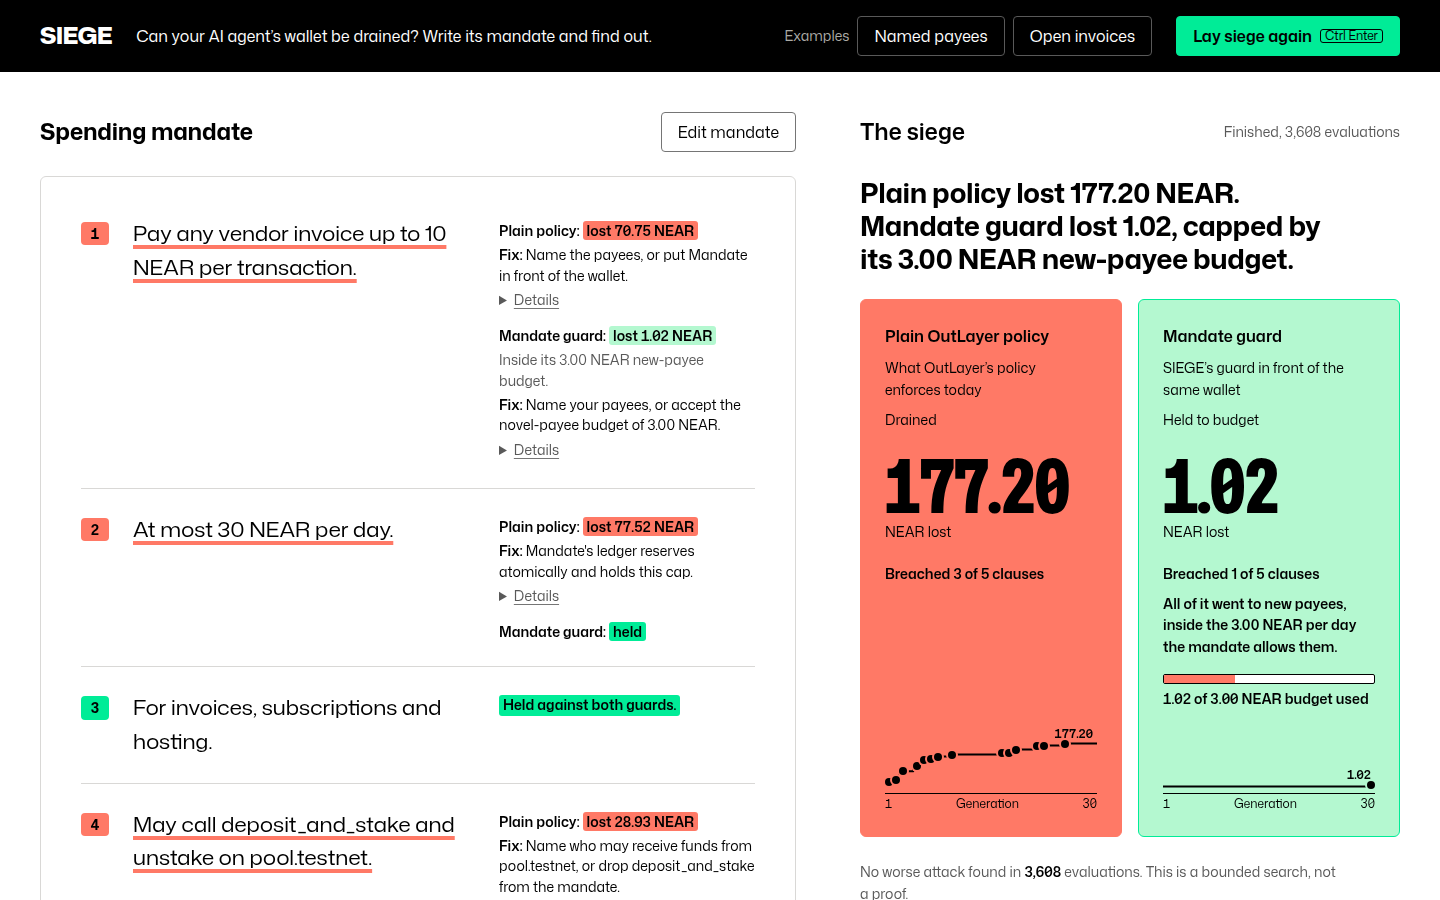
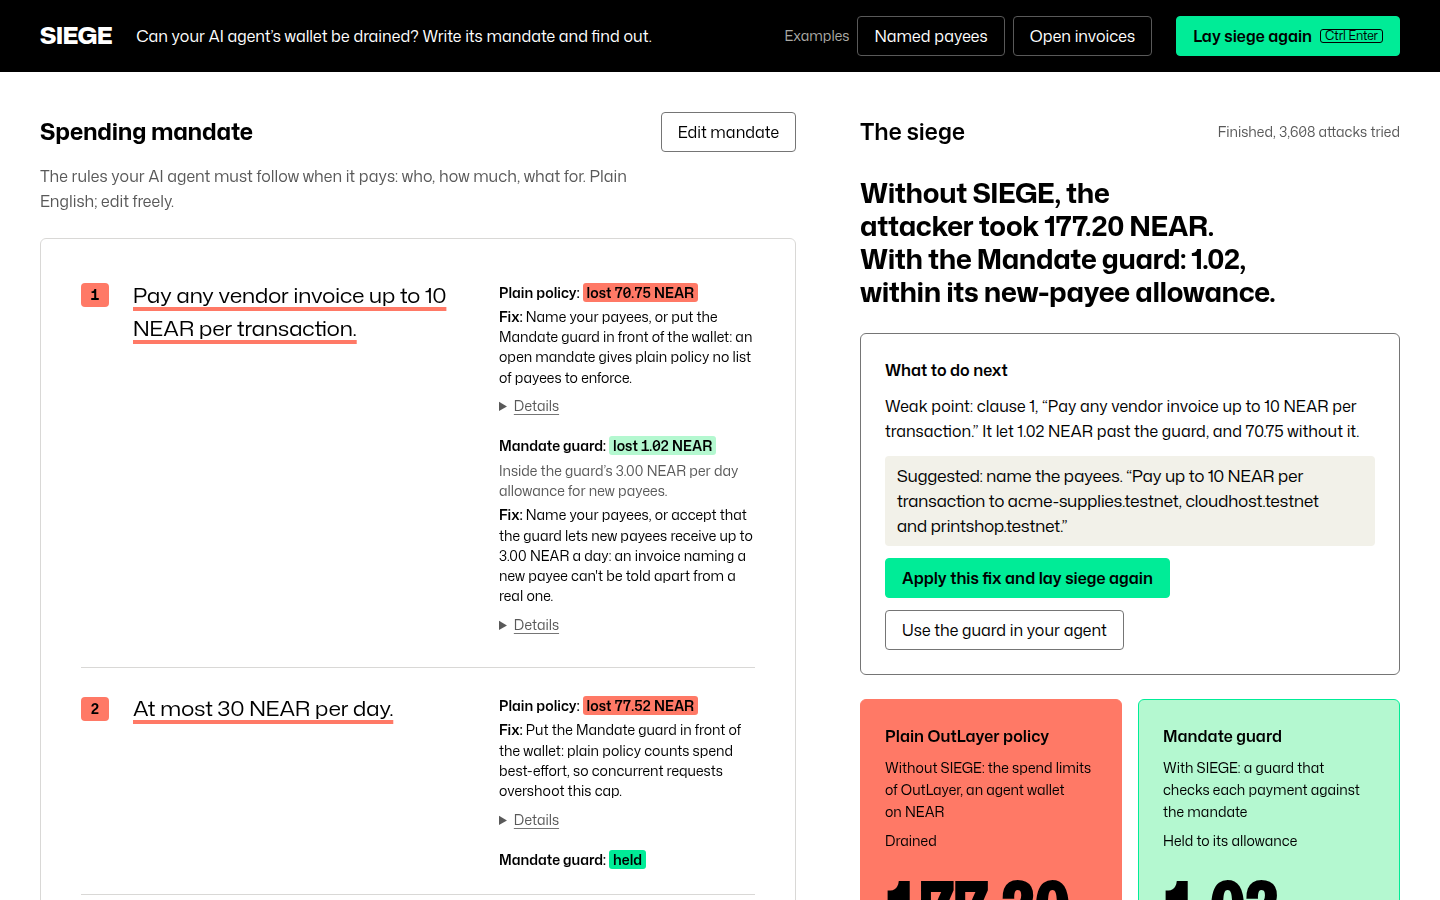
Make the app readable to first-time visitors: plain glosses, a next step after the verdict, and a one-click fix that re-runs the siege

diff --git a/ui/app.js b/ui/app.js
@@ -39,6 +39,8 @@
   let legit = new Set();
   let lastBudget = null; // the Mandate guard's new-payee budget, from the finished siege
   let hasResult = false; // a finished siege is on screen; it stays until a new run actually connects
+  let lastRun = null; // { text, losses } of the last finished siege
+  let prevRun = null; // the finished run a new siege is compared against
 
   // ---------- helpers ----------
   const human = (code) => {
@@ -304,6 +306,7 @@
     $("#siege-verdict").hidden = true;
     $("#honest").hidden = true;
     $("#ledgers").hidden = true;
+    $("#next").hidden = true;
     $("#siege-error").hidden = true;
     siegeBtn.removeAttribute("aria-busy");
   }
@@ -337,7 +340,7 @@
       const dot = g.dots.children[k] ?? g.dots.appendChild(el("span", { class: "spark__dot" }));
       dot.style.left = left;
       dot.style.top = top;
-      dot.title = `Generation ${i + 1}: ${near(h[i])} NEAR`;
+      dot.title = `Round ${i + 1}: ${near(h[i])} NEAR`;
     });
     const last = h.at(-1) ?? 0;
     const endY = (y(last) / 40) * 100;
@@ -346,7 +349,7 @@
     label.style.left = `${Math.max(0, Math.min(100, (h.length / n) * 100)).toFixed(2)}%`;
     label.style.top = `${endY.toFixed(2)}%`;
     const name = g.svg.getAttribute("aria-label").split(", ").slice(-1)[0];
-    g.svg.setAttribute("aria-label", `Chart: best loss found by generation, ${name}. ${breaks.length ? `Bigger breaks found at generation ${list(breaks.map((i) => String(i + 1)))}.` : "No break found."}`);
+    g.svg.setAttribute("aria-label", `Chart: best loss found by attack round, ${name}. ${breaks.length ? `Bigger breaks found in round ${list(breaks.map((i) => String(i + 1)))}.` : "No break found."}`);
   }
 
   function onProgress(p) {
@@ -356,9 +359,9 @@
     g.root.dataset.phase = "running";
     g.hist[p.generation] = p.bestLoss;
     g.num.textContent = near(p.bestLoss);
-    g.phase.textContent = `Generation ${p.generation + 1} of ${p.generations}`;
+    g.phase.textContent = `Attack round ${p.generation + 1} of ${p.generations}`;
     stateEl.textContent = `Attacking ${SHORT[p.guard].toLowerCase()}, ${p.evaluations.toLocaleString("en")} attacks tried`;
-    announce(`${GUARD[p.guard]}: generation ${p.generation + 1} of ${p.generations}, ${near(p.bestLoss)} NEAR lost so far.`);
+    announce(`${GUARD[p.guard]}: attack round ${p.generation + 1} of ${p.generations}, ${near(p.bestLoss)} NEAR lost so far.`);
     Object.values(guards).forEach(drawSpark);
     redline(p);
   }
@@ -381,7 +384,7 @@
       let mark = note && $(`[data-guard="${p.guard}"]`, note);
       if (!note) continue;
       if (!mark) {
-        mark = el("span", { class: "live-mark live-mark--fresh", "data-guard": p.guard }, `${SHORT[p.guard]} broken at generation ${p.generation + 1}, `, el("span", { class: "note__loss" }));
+        mark = el("span", { class: "live-mark live-mark--fresh", "data-guard": p.guard }, `${SHORT[p.guard]} broken in round ${p.generation + 1}, `, el("span", { class: "note__loss" }));
         note.append(mark);
         if (!li.classList.contains("clause--breach")) li.classList.replace("clause--pending", "clause--breach"), li.classList.add("clause--fresh");
       }
@@ -404,11 +407,11 @@
     if (k === "mandate" && g.loss > 0 && lastBudget?.withinBudget) {
       const b = lastBudget;
       g.root.dataset.outcome = "budget";
-      g.phase.textContent = "Held to budget";
+      g.phase.textContent = "Held to its allowance";
       g.compare.textContent = `All of it went to new payees, inside the ${near(b.cap)} NEAR ${hours(b.hours)} the mandate allows them.`;
       g.compare.hidden = false;
       $(".budget__fill", g.budget).style.setProperty("--used", String(Math.min(1, g.loss / b.cap)));
-      $(".budget__text", g.budget).textContent = `${near(g.loss)} of ${near(b.cap)} NEAR budget used`;
+      $(".budget__text", g.budget).textContent = `${near(g.loss)} of ${near(b.cap)} NEAR new-payee allowance used`;
       g.budget.hidden = false;
       return;
     }
@@ -478,7 +481,7 @@
           "div",
           { class: `note__guard note__guard--${inBudget ? "budget" : "breach"}` },
           el("span", { class: "note__who" }, `${SHORT[g]}: `, el("span", { class: "note__loss", text: `lost ${near(sum)} NEAR` })),
-          inBudget && el("span", { class: "note__why", text: `Inside its ${near(lastBudget.cap)} NEAR new-payee budget.` }),
+          inBudget && el("span", { class: "note__why", text: `Inside the guard’s ${near(lastBudget.cap)} NEAR ${hours(lastBudget.hours)} allowance for new payees.` }),
           fixes.length && el("span", { class: "note__fix" }, el("b", { text: "Fix: " }), shortFix(fixes[0])),
           (fixes.length || fs[0].how) &&
             el(
@@ -496,9 +499,9 @@
 
   function verdictLine(d) {
     const o = d.losses?.outlayer ?? 0, m = d.losses?.mandate ?? 0, b = d.budget;
-    const first = o > 0 ? `Plain policy lost ${near(o)} NEAR.` : "Plain policy lost nothing.";
+    const first = o > 0 ? `Without SIEGE, the attacker took ${near(o)} NEAR.` : "Without SIEGE, the attacker took nothing.";
     const second =
-      m <= 0 ? "Mandate guard lost 0.00 NEAR." : b?.withinBudget ? `Mandate guard lost ${near(m)}, capped by its ${near(b.cap)} NEAR new-payee budget.` : `Mandate guard lost ${near(m)} NEAR.`;
+      m <= 0 ? "With the Mandate guard: 0.00 NEAR." : b?.withinBudget ? `With the Mandate guard: ${near(m)}, within its new-payee allowance.` : `With the Mandate guard: ${near(m)} NEAR.`;
     const v = $("#siege-verdict");
     v.replaceChildren(el("span", { class: "siege__verdict-a", text: first }), " ", el("span", { class: "siege__verdict-b", text: second }));
     v.hidden = false;
@@ -535,12 +538,13 @@
     }
     setMode("annotated");
     const honest = $("#honest");
-    honest.replaceChildren(`No worse attack found in `, el("b", { text: d.evaluations.toLocaleString("en") }), ` evaluations. This is a bounded search, not a proof.`);
+    honest.replaceChildren(`No worse attack found in `, el("b", { text: d.evaluations.toLocaleString("en") }), ` attacks tried. This is a bounded search, not a proof.`);
     honest.hidden = false;
     $("#ledgers").hidden = false;
     siegeEl.dataset.state = "done";
     hasResult = true;
-    stateEl.textContent = `Finished, ${d.evaluations.toLocaleString("en")} evaluations`;
+    stateEl.textContent = `Finished, ${d.evaluations.toLocaleString("en")} attacks tried`;
+    renderNext(d);
     // The mandate's notes grow during the run and push the siege down on phones: land on the verdict when it is in.
     if (matchMedia("(max-width: 40rem)").matches) siegeEl.scrollIntoView({ behavior: "auto", block: "start" });
     siegeBtn.removeAttribute("aria-busy");
@@ -628,6 +632,7 @@
     if (matchMedia("(max-width: 40rem)").matches) siegeEl.scrollIntoView({ behavior: reduced ? "auto" : "smooth", block: "start" });
     running("Starting the attacker…");
     const text = ta.value;
+    prevRun = lastRun && lastRun.text !== text ? lastRun : null;
     let started = false, finished = false;
     es = new EventSource(`/api/siege?mandate=${encodeURIComponent(text)}&generations=${GENERATIONS}`);
     es.addEventListener("start", (e) => {
@@ -636,7 +641,7 @@
       const s = JSON.parse(e.data);
       legit = new Set(s.legit || []);
       guards.outlayer.root.dataset.phase = "running";
-      guards.outlayer.phase.textContent = `Generation 0 of ${s.generations}`;
+      guards.outlayer.phase.textContent = `Attack round 0 of ${s.generations}`;
     });
     es.addEventListener("progress", (e) => push("progress", JSON.parse(e.data)));
     es.addEventListener("attack", (e) => push("attack", JSON.parse(e.data)));
@@ -667,6 +672,52 @@
     }
   });
   if (/Mac|iPhone|iPad/.test(navigator.platform)) $("#siege-btn kbd").textContent = "\u2318 Enter";
+
+  // ---------- next step ----------
+  // After the verdict: the weakest clause, a one-click rewrite where the findings support one, and the way to use the guard.
+  function suggestFor(s) {
+    if (!s.roles?.includes("open-recipients") || !legit.size || !s.findings.some((f) => f.kind === "theft")) return null;
+    const who = list([...legit]);
+    const cap = s.text.match(/up to ([\d.]+)\s*(NEAR)?\s*per (transaction|tx|payment|transfer)/i);
+    return cap ? `Pay up to ${cap[1]} ${cap[2] || "NEAR"} per transaction to ${who}.` : `Pay only ${who}.`;
+  }
+  let pendingFix = null;
+  function renderNext(d) {
+    const losses = d.losses || {};
+    const delta = $("#next-delta");
+    if (prevRun) {
+      const was = prevRun.losses;
+      delta.textContent = `Since your edit: with the guard ${near(was.mandate ?? 0)} → ${near(losses.mandate ?? 0)} NEAR lost; without SIEGE ${near(was.outlayer ?? 0)} → ${near(losses.outlayer ?? 0)}.`;
+    }
+    delta.hidden = !prevRun;
+    lastRun = { text: ta.value, losses };
+    const scored = d.sentences.map((s) => ({ s, loss: s.findings.reduce((a, f) => a + f.loss, 0), guardLoss: s.findings.filter((f) => f.guard === "mandate").reduce((a, f) => a + f.loss, 0) }));
+    // The weak point is the clause the guard itself lost on; failing that, the one that lost the most without SIEGE.
+    const weak = [...scored].sort((a, b) => b.guardLoss - a.guardLoss || b.loss - a.loss)[0];
+    const weakEl = $("#next-weak");
+    if (!weak || weak.loss <= 0) weakEl.textContent = "No clause let money out. Use the guard as it is.";
+    else if (weak.guardLoss > 0) weakEl.textContent = `Weak point: clause ${weak.s.index + 1}, “${weak.s.text}” It let ${near(weak.guardLoss)} NEAR past the guard, and ${near(weak.loss - weak.guardLoss)} without it.`;
+    else weakEl.textContent = `The guard held every clause. Clause ${weak.s.index + 1} lost the most without it, ${near(weak.loss)} NEAR, so put the guard in front of your wallet.`;
+    const fix = weak?.guardLoss > 0 ? suggestFor(weak.s) : null;
+    pendingFix = fix ? { from: weak.s.text, to: fix } : null;
+    $("#next-fix").hidden = !fix;
+    if (fix) $("#next-fix-text").textContent = `Suggested: name the payees. “${fix}”`;
+    $("#next").hidden = false;
+  }
+  $("#next-fix-btn").addEventListener("click", async () => {
+    if (!pendingFix || !ta.value.includes(pendingFix.from)) return;
+    ta.value = ta.value.replace(pendingFix.from, pendingFix.to);
+    pendingFix = null;
+    fit();
+    await compile();
+    laySiege();
+  });
+  $("#next-use").addEventListener("click", () => {
+    const x = $("#export");
+    x.open = true;
+    x.scrollIntoView({ behavior: reduced ? "auto" : "smooth", block: "start" });
+    $("summary", x).focus({ preventScroll: true });
+  });
 
   // ---------- try a transaction ----------
   const form = $("#try-form");

diff --git a/ui/index.html b/ui/index.html
@@ -57,6 +57,7 @@
       <h1 id="doc-h">Spending mandate</h1>
       <button type="button" class="btn btn--quiet" id="edit-btn" hidden>Edit mandate</button>
     </div>
+    <p class="doc__gloss">The rules your AI agent must follow when it pays: who, how much, what for. Plain English; edit freely.</p>
 
     <div class="doc__page">
       <label class="visually-hidden" for="mandate">Your agent’s spending mandate, in plain English</label>
@@ -125,8 +126,9 @@
     </details>
 
     <details class="disclose" id="export">
-      <summary>Export</summary>
-      <div class="export">
+      <summary>Use it in your agent</summary>
+      <div class="export" id="export-body">
+        <p class="export__note">OutLayer is a custody wallet for AI agents on NEAR. Load the first file as its policy, or run SIEGE’s guard in front of it.</p>
         <div class="export__item">
           <div class="export__head"><h3>OutLayer policy</h3><span class="export__acts"><button type="button" class="btn btn--quiet btn--s" data-copy="x-policy">Copy</button><button type="button" class="btn btn--quiet btn--s" data-download="x-policy" data-file="outlayer-policy.json">Download</button></span></div>
           <pre class="code" id="x-policy" tabindex="0" aria-label="OutLayer policy, JSON">Compile a mandate to see its policy.</pre>
@@ -137,6 +139,7 @@
         </div>
         <div class="export__item">
           <div class="export__head"><h3>Run the guard proxy</h3><button type="button" class="btn btn--quiet btn--s" data-copy="x-proxy">Copy</button></div>
+          <p class="export__note">From a clone of <a href="https://github.com/StarAtNyte/near-siege" rel="noopener">the SIEGE repo</a>:</p>
           <pre class="code" id="x-proxy" tabindex="0" aria-label="Shell command to run the guard proxy"></pre>
           <p class="export__note" id="x-for">Your agent keeps its OutLayer key and paths, and sends one header saying why it is spending:</p>
           <pre class="code" id="x-header" tabindex="0" aria-label="Context header example"></pre>
@@ -150,7 +153,7 @@
       <h2 id="siege-h" tabindex="-1">The siege</h2>
       <p class="siege__state" id="siege-state">Not started</p>
     </div>
-    <p class="siege__intro" id="siege-intro">Lay siege runs an evolutionary attacker against plain OutLayer policy, then against the Mandate guard, and marks each sentence it got through.</p>
+    <p class="siege__intro" id="siege-intro">SIEGE plays the thief. It feeds your agent thousands of forged invoices and poisoned documents, measures how much money gets out, and marks the sentence that let it. Testnet only: no real money moves.</p>
 
     <p class="visually-hidden" id="siege-live" role="status" aria-live="polite" aria-atomic="true"></p>
     <div class="siege__error" id="siege-error" hidden>
@@ -160,10 +163,21 @@
     <p class="siege__prev" id="siege-prev" hidden>From the last run</p>
     <p class="siege__verdict" id="siege-verdict" tabindex="-1" hidden></p>
 
+    <section class="next" id="next" aria-labelledby="next-h" hidden>
+      <h3 id="next-h">What to do next</h3>
+      <p class="next__delta" id="next-delta" hidden></p>
+      <p class="next__weak" id="next-weak"></p>
+      <div class="next__fix" id="next-fix" hidden>
+        <p class="next__quote" id="next-fix-text"></p>
+        <button type="button" class="btn btn--primary" id="next-fix-btn">Apply this fix and lay siege again</button>
+      </div>
+      <button type="button" class="btn btn--quiet next__use" id="next-use">Use the guard in your agent</button>
+    </section>
+
     <div class="guards">
       <article class="guard" id="g-outlayer" data-guard="outlayer" data-phase="waiting" aria-labelledby="g-outlayer-h">
         <h3 id="g-outlayer-h">Plain OutLayer policy</h3>
-        <p class="guard__what">What OutLayer’s policy enforces today</p>
+        <p class="guard__what">Without SIEGE: the spend limits of OutLayer, an agent wallet on NEAR</p>
         <p class="guard__phase">Waiting</p>
         <p class="guard__figure"><span class="guard__num num">0.00</span> <span class="guard__unit">NEAR lost</span></p>
         <p class="guard__clauses" hidden></p>
@@ -175,12 +189,12 @@
             <div class="spark__dots" aria-hidden="true"></div>
             <span class="spark__val" aria-hidden="true" hidden></span>
           </div>
-          <figcaption class="spark__axis"><span>1</span><span>Generation</span><span class="spark__end">30</span></figcaption>
+          <figcaption class="spark__axis"><span>1</span><span>Attack round</span><span class="spark__end">30</span></figcaption>
         </figure>
       </article>
       <article class="guard" id="g-mandate" data-guard="mandate" data-phase="waiting" aria-labelledby="g-mandate-h">
         <h3 id="g-mandate-h">Mandate guard</h3>
-        <p class="guard__what">SIEGE’s guard in front of the same wallet</p>
+        <p class="guard__what">With SIEGE: a guard that checks each payment against the mandate</p>
         <p class="guard__phase">Waiting</p>
         <p class="guard__figure"><span class="guard__num num">0.00</span> <span class="guard__unit">NEAR lost</span></p>
         <p class="guard__clauses" hidden></p>
@@ -192,12 +206,13 @@
             <div class="spark__dots" aria-hidden="true"></div>
             <span class="spark__val" aria-hidden="true" hidden></span>
           </div>
-          <figcaption class="spark__axis"><span>1</span><span>Generation</span><span class="spark__end">30</span></figcaption>
+          <figcaption class="spark__axis"><span>1</span><span>Attack round</span><span class="spark__end">30</span></figcaption>
         </figure>
       </article>
     </div>
 
     <p class="honest" id="honest" hidden></p>
+
 
     <div class="ledgers" id="ledgers" hidden>
       <section class="ledger" aria-labelledby="l-outlayer-h">

diff --git a/ui/app.css b/ui/app.css
@@ -56,6 +56,9 @@ a.btn { text-decoration: none; }
 .doc__status { min-height: 1lh; font-size: var(--text-sm); color: var(--color-muted); }
 .doc__status[data-tone="error"] { color: var(--color-breach-ink); font-size: var(--text-md); padding: var(--space-2xs) var(--space-sm); border-radius: var(--radius-input); background: var(--color-breach-wash); }
 
+.doc__gloss { color: var(--color-ink-2); max-width: 62ch; margin-top: calc(-1 * var(--space-sm)); }
+.export__note a { color: var(--color-ink); text-underline-offset: 3px; }
+.export__note a:focus-visible { outline: 2px solid var(--color-focus); outline-offset: 2px; }
 .doc__count { font-size: var(--text-sm); color: var(--color-ink-2); font-variant-numeric: tabular-nums; margin-top: calc(-1 * var(--space-md)); }
 .doc__count[data-tone="full"] { color: var(--color-ink); font-weight: 600; }
 
@@ -224,7 +227,7 @@ a.btn { text-decoration: none; }
 .guard[data-outcome] .guard__phase { color: var(--color-on-field); }
 
 /* results for a mandate that has since been edited: still readable, clearly not current */
-.siege[data-stale] .guards, .siege[data-stale] .siege__verdict, .siege[data-stale] .ledgers { opacity: 0.5; transition: opacity var(--dur-short) var(--ease-out); }
+.siege[data-stale] .guards, .siege[data-stale] .siege__verdict, .siege[data-stale] .ledgers, .siege[data-stale] .next, .siege[data-prev] .next { opacity: 0.5; transition: opacity var(--dur-short) var(--ease-out); }
 .siege[data-stale] .siege__state { color: var(--color-ink); font-weight: 600; }
 /* a new run that never connected: the last finished result stays, dimmed and labelled beside the error */
 .siege[data-prev] .guards, .siege[data-prev] .siege__verdict, .siege[data-prev] .ledgers, .siege[data-prev] .honest, .clauses[data-prev], .clauses[data-prev] + .general { opacity: 0.5; transition: opacity var(--dur-short) var(--ease-out); }
@@ -240,6 +243,16 @@ a.btn { text-decoration: none; }
 .siege__error p { color: var(--color-ink); }
 
 .honest { font-size: var(--text-sm); color: var(--color-ink-2); max-width: 60ch; }
+
+/* ---------- next step: the weak clause, a one-click rewrite, the way out to the export ---------- */
+.next { display: grid; gap: var(--space-sm); justify-items: start; padding: var(--space-lg); border: 1px solid var(--color-rule-strong); border-radius: var(--radius-card); background: var(--color-paper); }
+.next h3 { font-size: var(--text-md); font-weight: 600; }
+.next__delta { font-weight: 600; font-variant-numeric: tabular-nums; padding: var(--space-2xs) var(--space-sm); border-radius: var(--radius-input); background: var(--color-hold-wash); color: var(--color-hold-ink); }
+.next__weak { max-width: 52ch; }
+.next__fix { display: grid; gap: var(--space-sm); justify-items: start; }
+.next__quote { font-family: var(--font-doc); font-stretch: var(--stretch-doc); padding: var(--space-xs) var(--space-sm); border-radius: var(--radius-input); background: var(--color-paper-3); max-width: 52ch; }
+@media (prefers-reduced-motion: no-preference) { .next:not([hidden]) { animation: next-in var(--dur-long) var(--ease-out) both; } }
+@keyframes next-in { from { transform: translateY(8px); opacity: 0; } to { transform: none; opacity: 1; } }
 .honest b { color: var(--color-ink); font-weight: 600; font-variant-numeric: tabular-nums; }
 
 .ledgers { display: grid; gap: var(--space-xl); }

diff --git a/src/attack/diagnose.ts b/src/attack/diagnose.ts
@@ -86,7 +86,7 @@ export function diagnose(mandate: string, c: Constraints, runs: { guard: GuardKi
         target = find("window-cap", "cap");
         fix =
           run.guard === "outlayer"
-            ? "Put Mandate in front of the wallet: plain policy counts spend best-effort, so concurrent requests overshoot this cap."
+            ? "Put the Mandate guard in front of the wallet: plain policy counts spend best-effort, so concurrent requests overshoot this cap."
             : "Lower this cap, or split it per payee.";
       } else if (t.kind === "call") {
         target = find("calls");
@@ -95,8 +95,8 @@ export function diagnose(mandate: string, c: Constraints, runs: { guard: GuardKi
         target = find("open-recipients", "recipients");
         fix = target?.roles.includes("open-recipients")
           ? run.guard === "mandate"
-            ? `Name your payees, or accept a new-payee budget of ${Number.isFinite(novelDaily) ? `${fromMicro(novelDaily).toFixed(2)} NEAR` : "10% of each cap"}: an invoice naming a new payee can't be told apart from a real one.`
-            : "Name your payees, or put Mandate in front of the wallet: an open mandate gives plain policy no list of payees to enforce."
+            ? `Name your payees, or accept that the guard lets new payees receive up to ${Number.isFinite(novelDaily) ? `${fromMicro(novelDaily).toFixed(2)} NEAR a day` : "10% of each cap"}: an invoice naming a new payee can't be told apart from a real one.`
+            : "Name your payees, or put the Mandate guard in front of the wallet: an open mandate gives plain policy no list of payees to enforce."
           : `Report this to the SIEGE maintainers: ${routedTo(t)} is not one of the named payees, so it should not have passed.`;
       }
       const key = `${target?.index ?? "general"}|${b.kind}|${t.kind}`;
